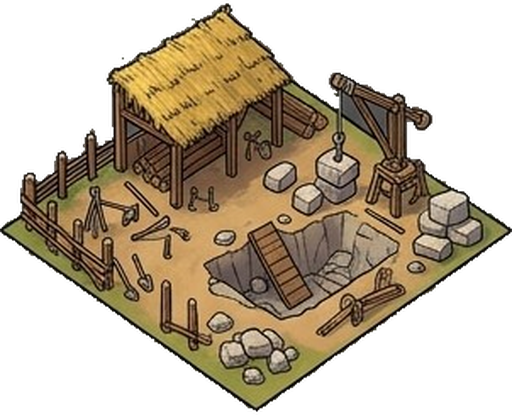
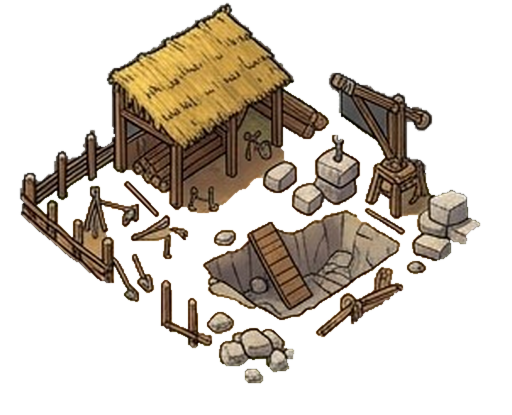
Teste: pedreira sem chão
- As 3 artes da pedreira ficam só com os elementos (chão e bloco apagados)
- public/arte/ancoras.json guarda o centro do chão das artes sem chão, para o encaixe nas casas

Claude-Session: https://claude.ai/code/session_013E7jASVZi5swBVS8hakvtW

Changed region(s): [[0.0, 0.1735, 1.0, 1.0], [0.8125, 0.4048, 0.9062, 0.4916]]

diff --git a/src/art/loader.ts b/src/art/loader.ts
@@ -20,8 +20,17 @@ export async function initArt(changed: () => void): Promise<void> {
   } catch {
     provided = new Set();
   }
+  try {
+    const res = await fetch('./arte/ancoras.json');
+    if (res.ok) anchors = (await res.json()) as Record<string, number>;
+  } catch {
+    anchors = {};
+  }
   applyInterfaceArt();
 }
+
+/** Centro do chão (fração da altura) para artes cujo chão foi apagado. */
+let anchors: Record<string, number> = {};
 
 /** Peças de interface fornecidas viram regras de CSS (botões, barras, painéis, carta). */
 /** Botão com arte: as pontas mantêm o desenho e só o miolo estica. */
@@ -115,7 +124,8 @@ const anchorCache = new WeakMap<object, number>();
  * Altura (em px da imagem) do centro do chão de uma arte isométrica fornecida.
  * Mede a borda de baixo do bloco: a ponta da frente e a inclinação dos lados.
  */
-export function groundCenterY(img: Img): number {
+export function groundCenterY(img: Img, key?: string): number {
+  if (key && anchors[key] != null) return anchors[key] * (img.height as number);
   const hit = anchorCache.get(img);
   if (hit !== undefined) return hit;
   const W = img.width as number;

diff --git a/src/ui/cityView.ts b/src/ui/cityView.ts
@@ -355,7 +355,7 @@ export class CityView {
     const ih = img.height as number;
     const k = (n * TW * this.zoom) / iw;
     const center = this.toScreen(x + n / 2, y + n / 2);
-    c.drawImage(img, center.x - (iw / 2) * k, center.y - groundCenterY(img) * k, iw * k, ih * k);
+    c.drawImage(img, center.x - (iw / 2) * k, center.y - groundCenterY(img, key) * k, iw * k, ih * k);
   }
 
   private drawScaffold(c: CanvasRenderingContext2D, x: number, y: number, n: number): void {
